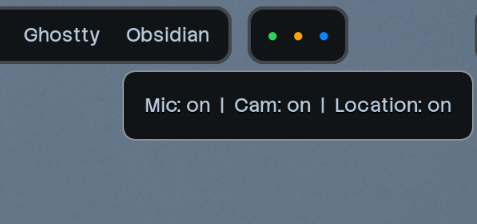
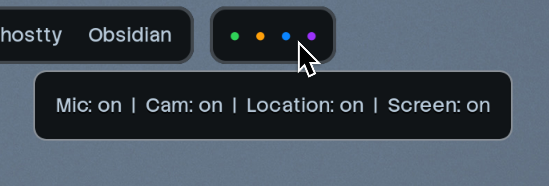
Add screen sharing indicator support and update README.md

diff --git a/README.md b/README.md
@@ -2,24 +2,19 @@
   
 Displays the status of your microphone, camera, and location with beautiful colored dots.
 
-![Status dots displayed in Waybar showing microphone, camera, and location indicators in green, orange, and blue](./assets/privacy-dots.png)
+![Status dots displayed in Waybar showing microphone, camera, location and screen sharing indicators in green, orange, blue and purple](./assets/privacy-dots.png)
 
 ## Capabilities
 
-- **Mic Status:** Shows a green dot when any microphone is in use.
-- **Cam Status:** Shows an orange dot when any camera is active.
-- **Loc Status:** Shows a blue dot when location services are in use.
+- **Microphone Status:** Shows a green dot when any microphone is in use.
+- **Camera Status:** Shows an orange dot when any camera is active.
+- **Location Status:** Shows a blue dot when location services are in use.
+- **Screen Status:** Shows a purple dot when screen sharing is active.
 - **Easy to Customize:** Add new statuses or change colors easily. The functionality is handled by a simple Bash script, and styling is managed with CSS.
 
 ## Defaults
 
 The backend script polls status information every 3 seconds by default. It provides formatted text, tooltips, and styling classes, which you can use with any bar to display.
-
-## Notes
-
-This fork improves the original script by adding an actually working location usage tracker and rewriting the camera tracker, which can now be triggered even by a virtual webcam. And as I use Waybar, guide for it is the only one that's present.
-
-Also I want to note that I don't have a laptop on which I can test this script and I'm forced to rely on using my phone as camera to test the camera tracker and `/usr/lib/geoclue-2.0/demos/agent` as a geolocation trigger. I can not guarantee that it fully works with the actual hardware modules. 
 
 ## Dependencies
 
@@ -58,10 +53,20 @@ Also I want to note that I don't have a laptop on which I can test this script a
 }
 ```
 
+## Notes
+
+- This fork improves the original script by adding an actually working location usage tracker and rewriting the camera tracker, which can now be triggered even by a virtual webcam.
+
+- As I use Waybar, guide for it is the only one that's present.
+
+- I don't have a laptop on which I can test this script and I'm forced to rely on using my phone as camera to test the camera tracker and `/usr/lib/geoclue-2.0/demos/agent` as a geolocation trigger. I can not guarantee that it fully works with the actual hardware modules.
+
+- All indicators tested and proved to be working with `OBS`, `gpu-screen-recorder`, `Discord` and `Telegram`. Screen sharing indicator does not work when sharing a specific tab in the web version of Discord in the same browser. 
+
 ## TODO
 
 (PRs are more than welcome btw)
 
 - [ ] Add which apps use those features to the tooltip
 - [ ] Add more installation guides for different bars
-- [ ] Add an indicator if screen is being recorded/shared
+- [x] Add an indicator if screen is being recorded/shared
